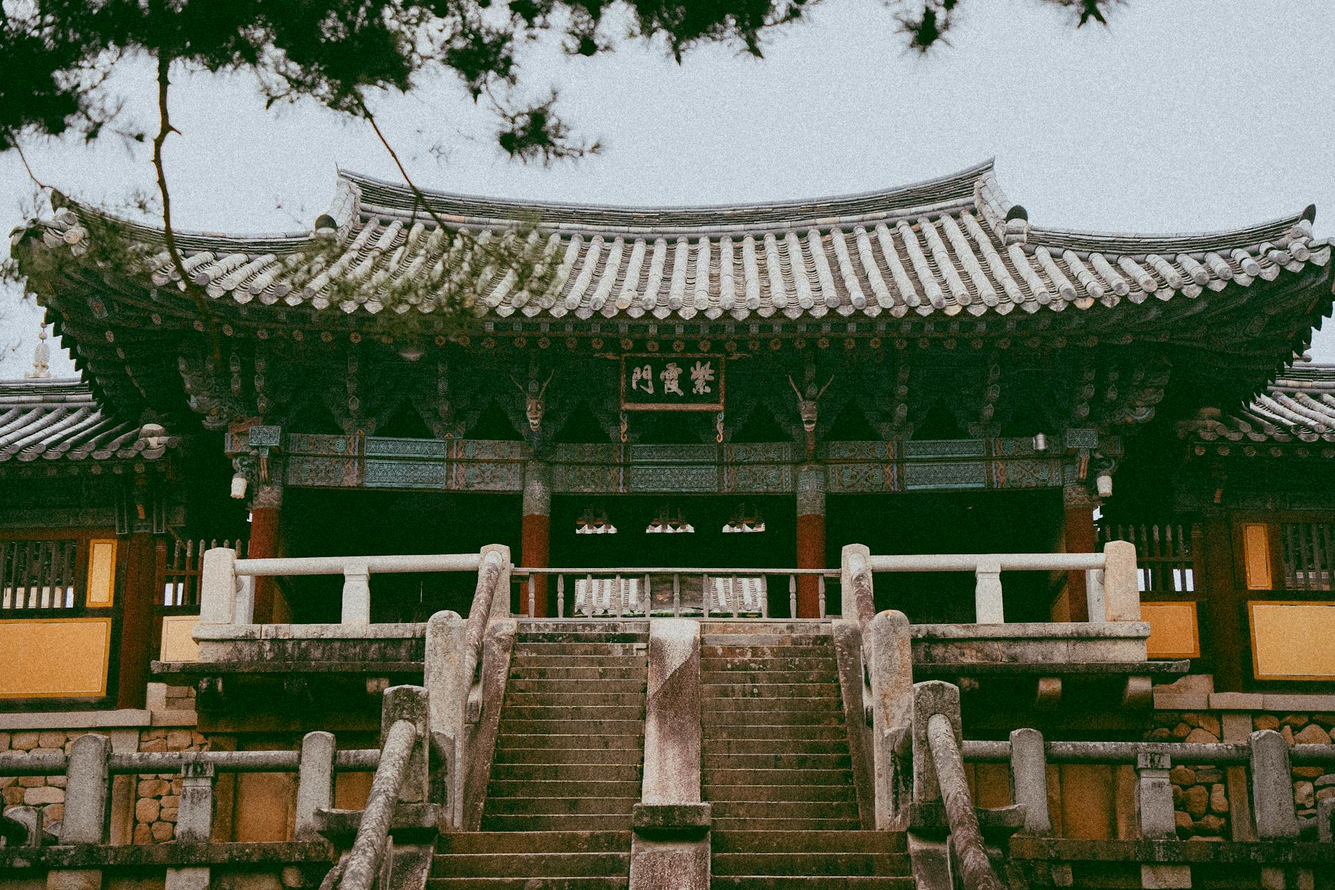
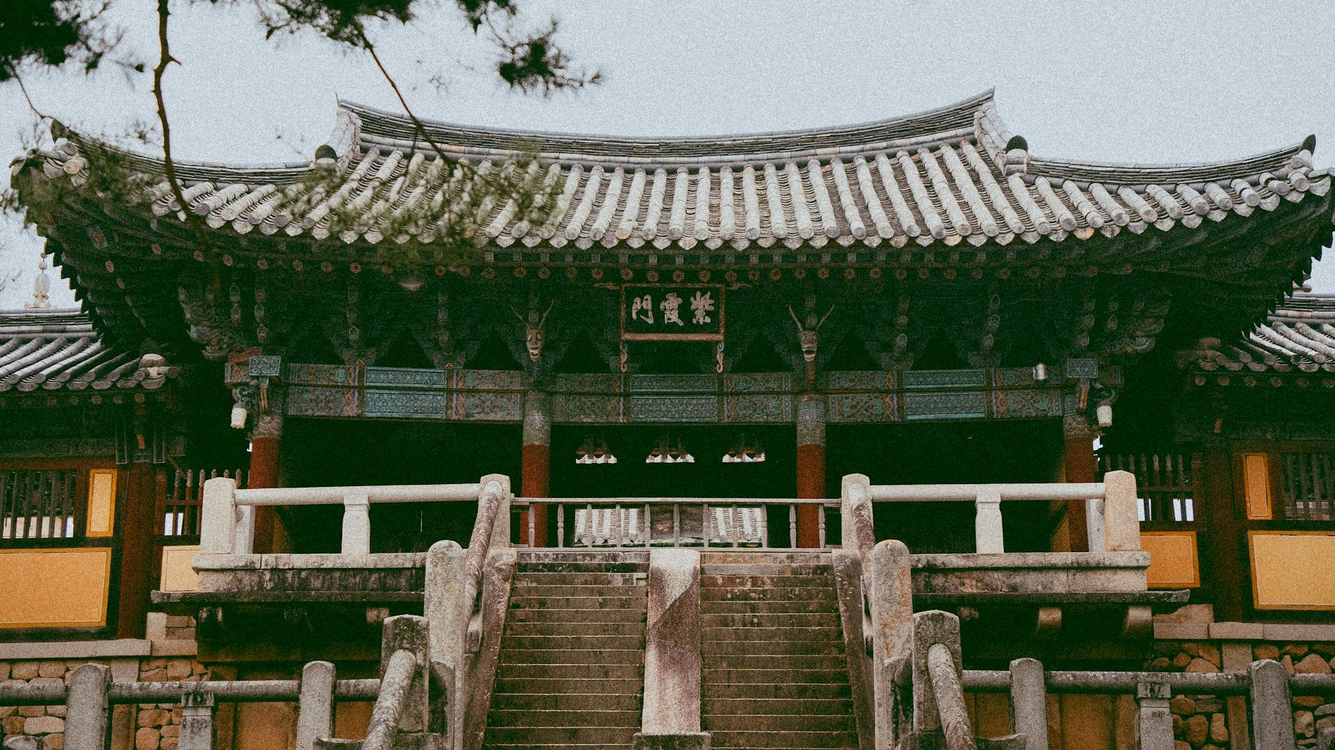
Crop images to 16:9, unify cinematic tone, and align vertically

diff --git a/src/components/WorksSection.tsx b/src/components/WorksSection.tsx
@@ -42,14 +42,14 @@ const WorksSection = () => {
                   {work.num}
                 </span>
                 <div className="flex items-center gap-8 mt-3 mb-5">
-                  <h3 className="work-title font-korean font-normal text-xl md:text-2xl transition-colors duration-300 flex-shrink-0">
+                  <h3 className="work-title font-korean font-normal text-xl md:text-2xl transition-colors duration-300 w-28 md:w-40 flex-shrink-0">
                     {work.title}
                   </h3>
-                  <div className="w-48 h-32 md:w-72 md:h-48 flex-shrink-0 overflow-hidden rounded">
+                  <div className="w-48 md:w-80 flex-shrink-0 overflow-hidden rounded" style={{ aspectRatio: '16/9' }}>
                     <img
                       src={work.image}
                       alt={work.title}
-                      className="w-full h-full object-cover opacity-80 group-hover:opacity-100 transition-opacity duration-300"
+                      className="w-full h-full object-cover opacity-80 group-hover:opacity-100 transition-opacity duration-300 saturate-[0.7] contrast-[1.1] brightness-[0.85]"
                     />
                   </div>
                 </div>
